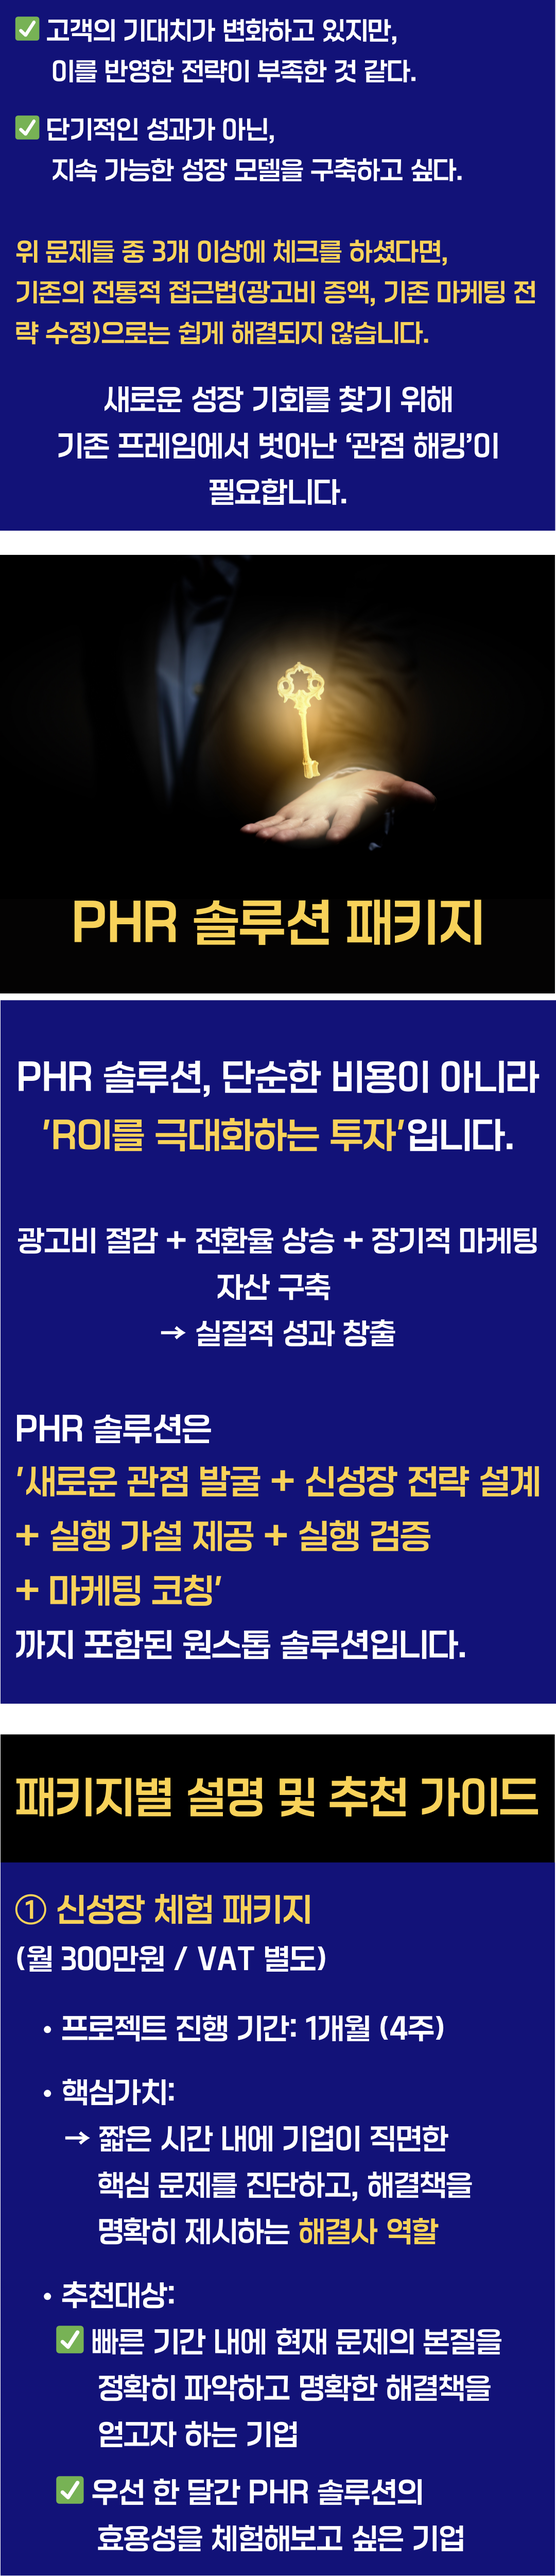
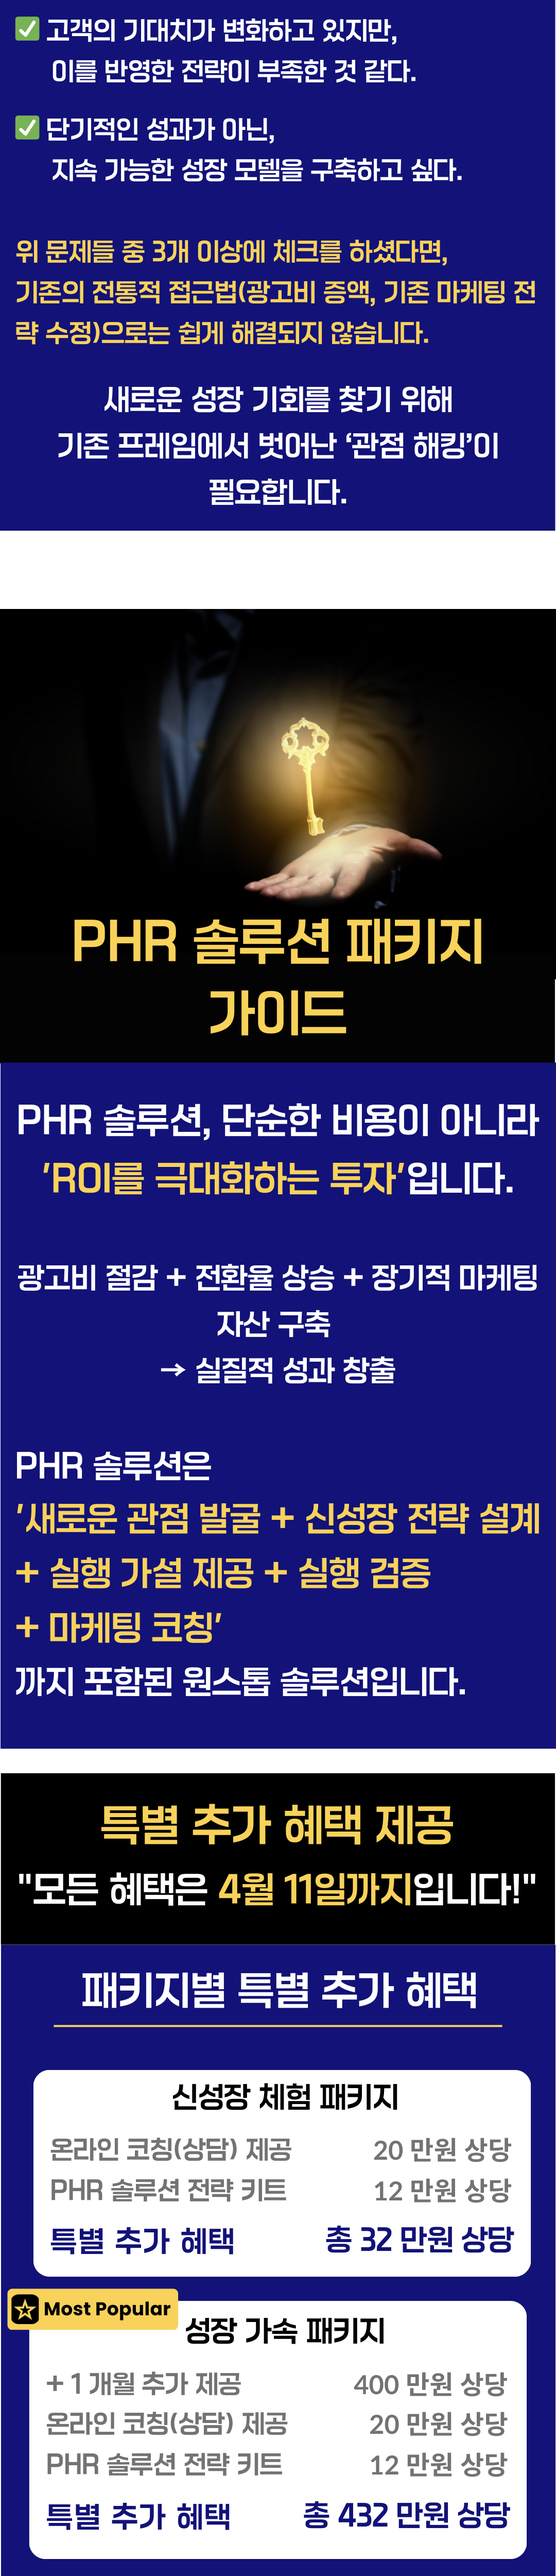
Add files via upload

diff --git a/index.html b/index.html
@@ -137,15 +137,17 @@ img {
         <img src="19.png" alt="이미지 19">
         <img src="20.png" alt="이미지 20">
         <img src="21.png" alt="이미지 21">
+        <img src="22.png" alt="이미지 22">
+        <img src="23.png" alt="이미지 23">
     
         <!-- 무료 상담 신청 -->
         <a href="https://forms.gle/a79kdTWJAYfrJoT28" target="_blank">
-            <img src="22.png" alt="무료 상담 신청하기">
+            <img src="24.png" alt="무료 상담 신청하기">
         </a>
 
         <!-- PHR 솔루션 도입 신청 -->
         <a href="https://forms.gle/a79kdTWJAYfrJoT28" target="_blank">
-            <img src="23.png" alt="PHR 솔루션 도입 신청하기">
+            <img src="25.png" alt="PHR 솔루션 도입 신청하기">
         </a>
     </div>
 
